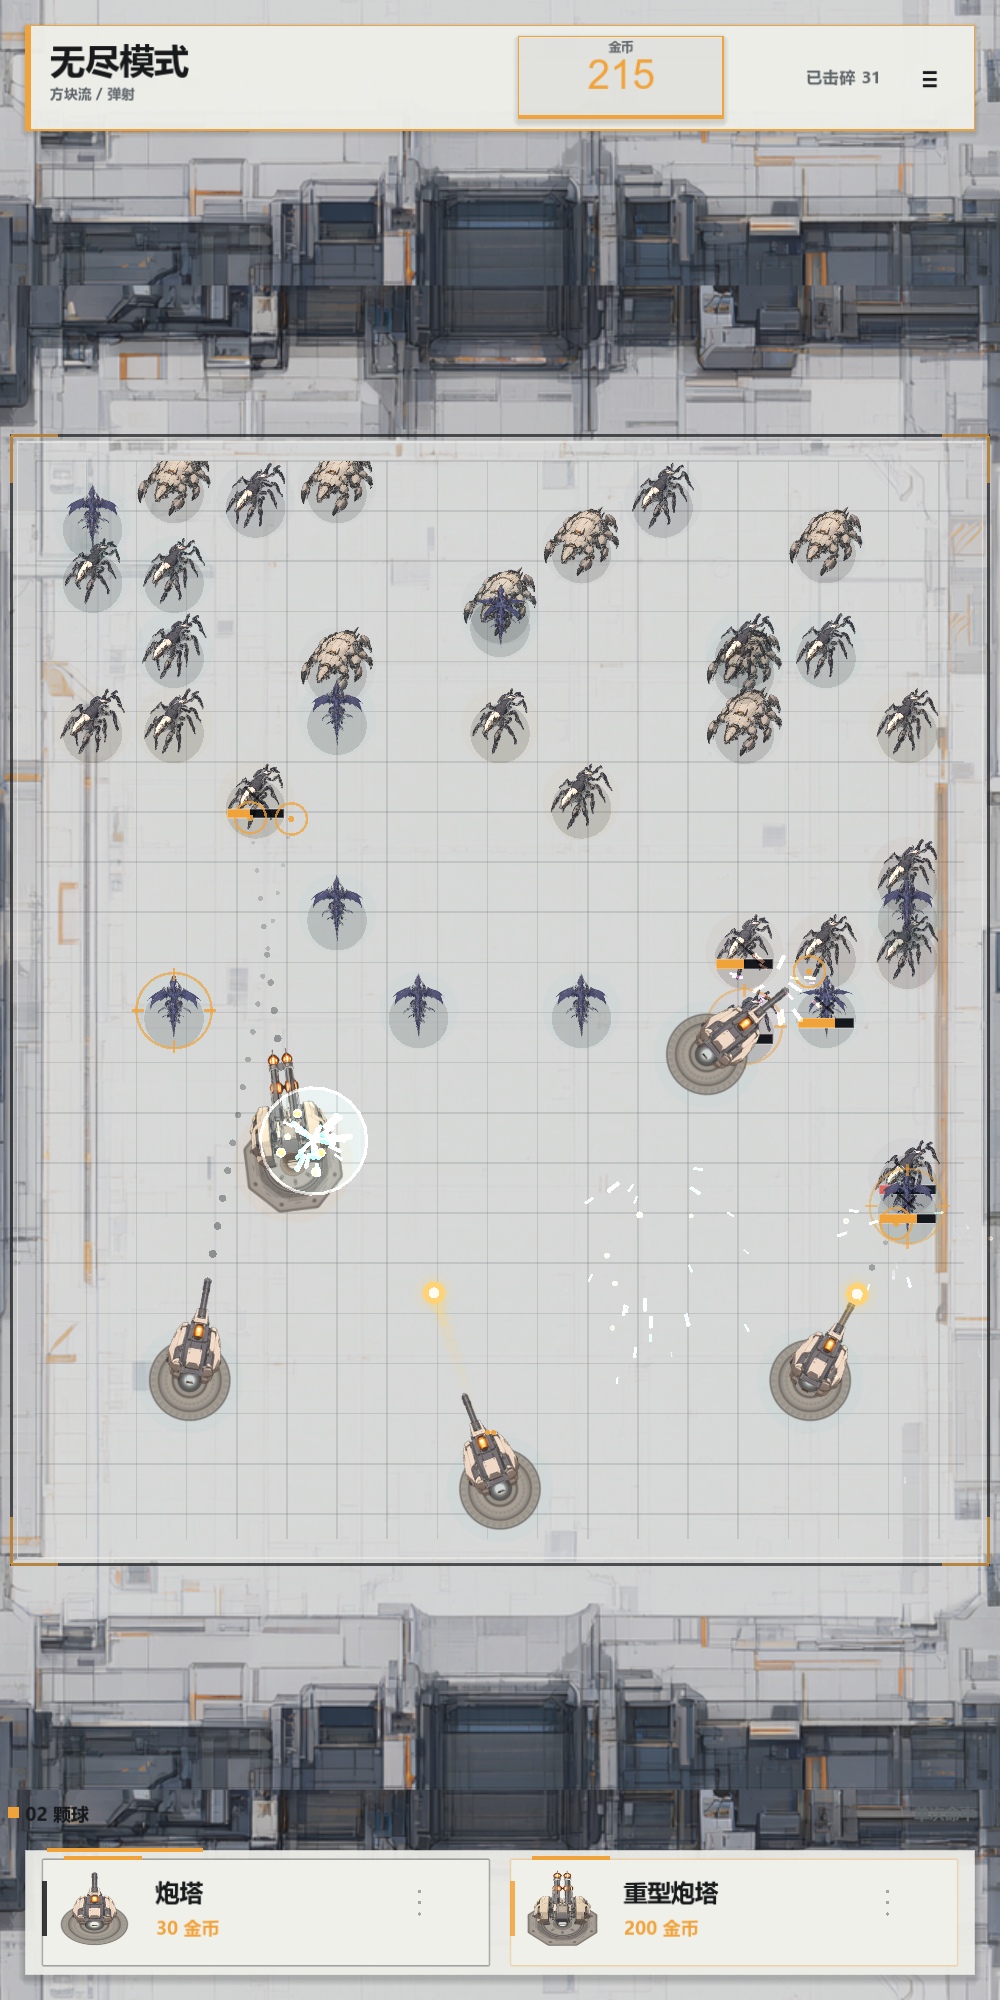
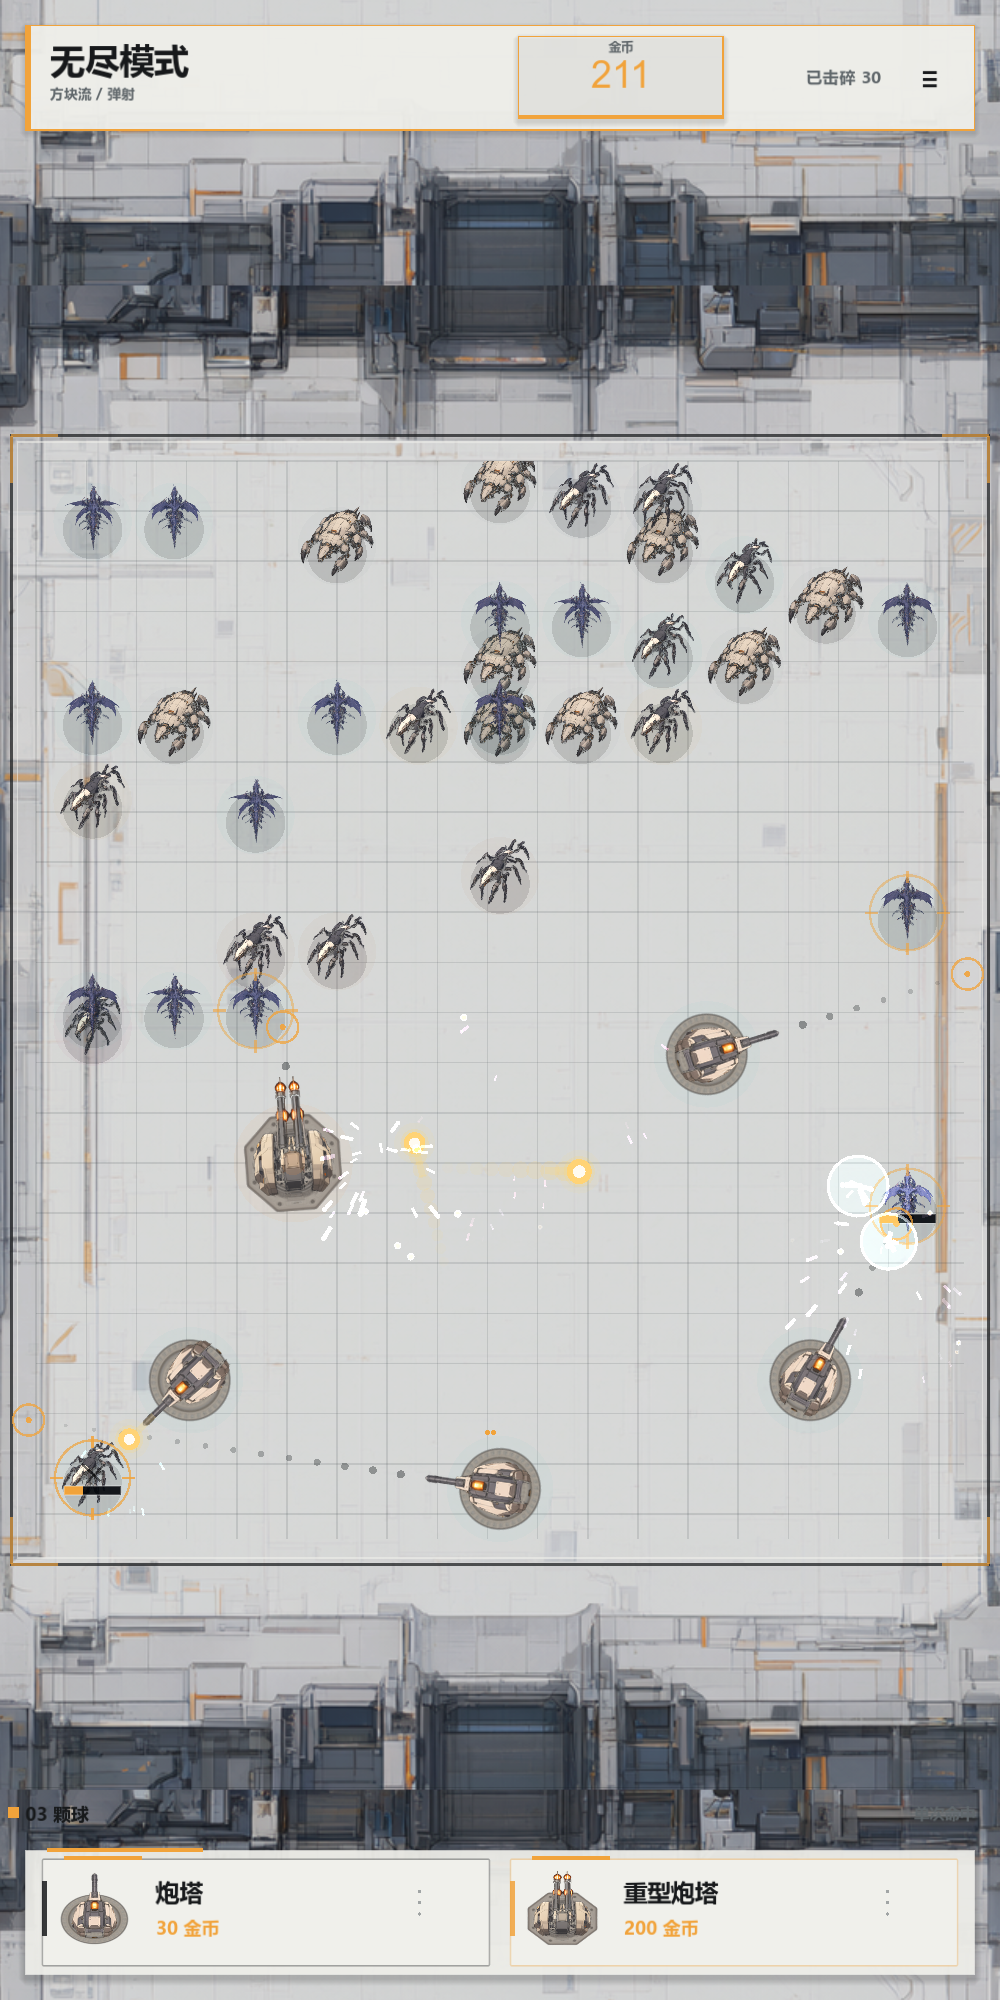
fix: 炮塔机身中心对齐基盘圆心
- 后处理用机身最宽段确定炮塔中心，把该中心行放到基盘圆心，炮管向前伸出
- 重新生成炮塔头与商店图标，更新四张游戏截图
- README 同步对齐规则

diff --git a/tools/process_ui_assets.py b/tools/process_ui_assets.py
@@ -158,8 +158,7 @@ LAYER_TARGETS = {
         "folds": 8,
     },
 }
-# 炮塔头落进基盘时，头部底边相对基盘中心下压的像素数
-HEAD_SEAT = 4
+# 头部贴图里炮塔机身的中心行对齐到基盘圆心
 
 
 def _background_color(image: Image.Image) -> tuple[int, int, int]:
@@ -201,6 +200,20 @@ def _split_parts(mask: Image.Image) -> int:
     if best_start < 0:
         raise RuntimeError("Turret layers must have a visible gap between head and base")
     return best_start + best_length // 2
+
+
+def _body_center(mask: Image.Image) -> float:
+    """炮塔机身的中心行：取最宽的那几行，忽略细长炮管。"""
+    rows: list[tuple[int, int]] = []
+    widest = 0
+    for y in range(mask.height):
+        box = mask.crop((0, y, mask.width, y + 1)).getbbox()
+        width = 0 if box is None else box[2] - box[0]
+        if width > 0:
+            rows.append((y, width))
+            widest = max(widest, width)
+    body = [y for y, width in rows if width > widest * 0.6]
+    return (body[0] + body[-1]) * 0.5
 
 
 def _composite(canvas: Image.Image, part: Image.Image, scale: float, left: float, top: float) -> None:
@@ -273,6 +286,8 @@ def process_turret_layers() -> None:
             raise RuntimeError("Run `process_ui_assets.py bases` before `layers`")
         base_canvas = Image.open(base_path).convert("RGBA")
 
+        # 炮塔机身中心对准基盘圆心，炮管向前伸出，避免炮身整体偏出基座
+        body_center = _body_center(strong.crop((0, 0, strong.width, split)))
         head_canvas = Image.new("RGBA", HEAD_CANVAS, (0, 0, 0, 0))
         head_center_x = (head_box[0] + head_box[2]) * 0.5
         _composite(
@@ -280,7 +295,7 @@ def process_turret_layers() -> None:
             head,
             scale,
             LAYER_SIZE * 0.5 - head_center_x * scale,
-            HEAD_PIVOT_Y + HEAD_SEAT - head_box[3] * scale,
+            HEAD_PIVOT_Y - body_center * scale,
         )
         head_canvas.save(TARGET / f"{name}_head_field.png", optimize=True)
 

diff --git a/README.md b/README.md
@@ -125,7 +125,7 @@ Godot_v4.7.2-stable_win64.exe --path . res://tools/screenshot.tscn
 
 ## 美术素材
 
-主界面背景（移动都市巨构 key visual）、战场底板、四类怪物以及商店与场上炮塔由本地 ComfyUI 的 `qwen_workflow` 生成，成品位于 `assets/ui/`。每种怪物有一张四帧横向动画图集，按类型以 6～12 FPS 播放并使用不同相位；保留原碰撞矩形、受击后限时显示的血条和受击闪光。炮塔拆成基盘与炮塔头两层素材：基盘是严格俯视的扁平圆盘／八边形板，后处理时按 36／8 重旋转对称化，随瞄准旋转时不会出现光照翻转或透视变化；炮塔头按同一枢轴叠放，开炮只让头部后坐，放置预览使用同一套分层素材。需要重新生成时，先启动 `http://127.0.0.1:8188/`，再运行：
+主界面背景（移动都市巨构 key visual）、战场底板、四类怪物以及商店与场上炮塔由本地 ComfyUI 的 `qwen_workflow` 生成，成品位于 `assets/ui/`。每种怪物有一张四帧横向动画图集，按类型以 6～12 FPS 播放并使用不同相位；保留原碰撞矩形、受击后限时显示的血条和受击闪光。炮塔拆成基盘与炮塔头两层素材：基盘是严格俯视的扁平圆盘／八边形板，后处理时按 36／8 重旋转对称化，随瞄准旋转时不会出现光照翻转或透视变化；炮塔头按机身最宽处对齐基盘圆心，和基盘共用同一旋转轴，开炮只让头部后坐，放置预览使用同一套分层素材。需要重新生成时，先启动 `http://127.0.0.1:8188/`，再运行：
 
 ```bash
 python tools/generate_ui_assets.py all
